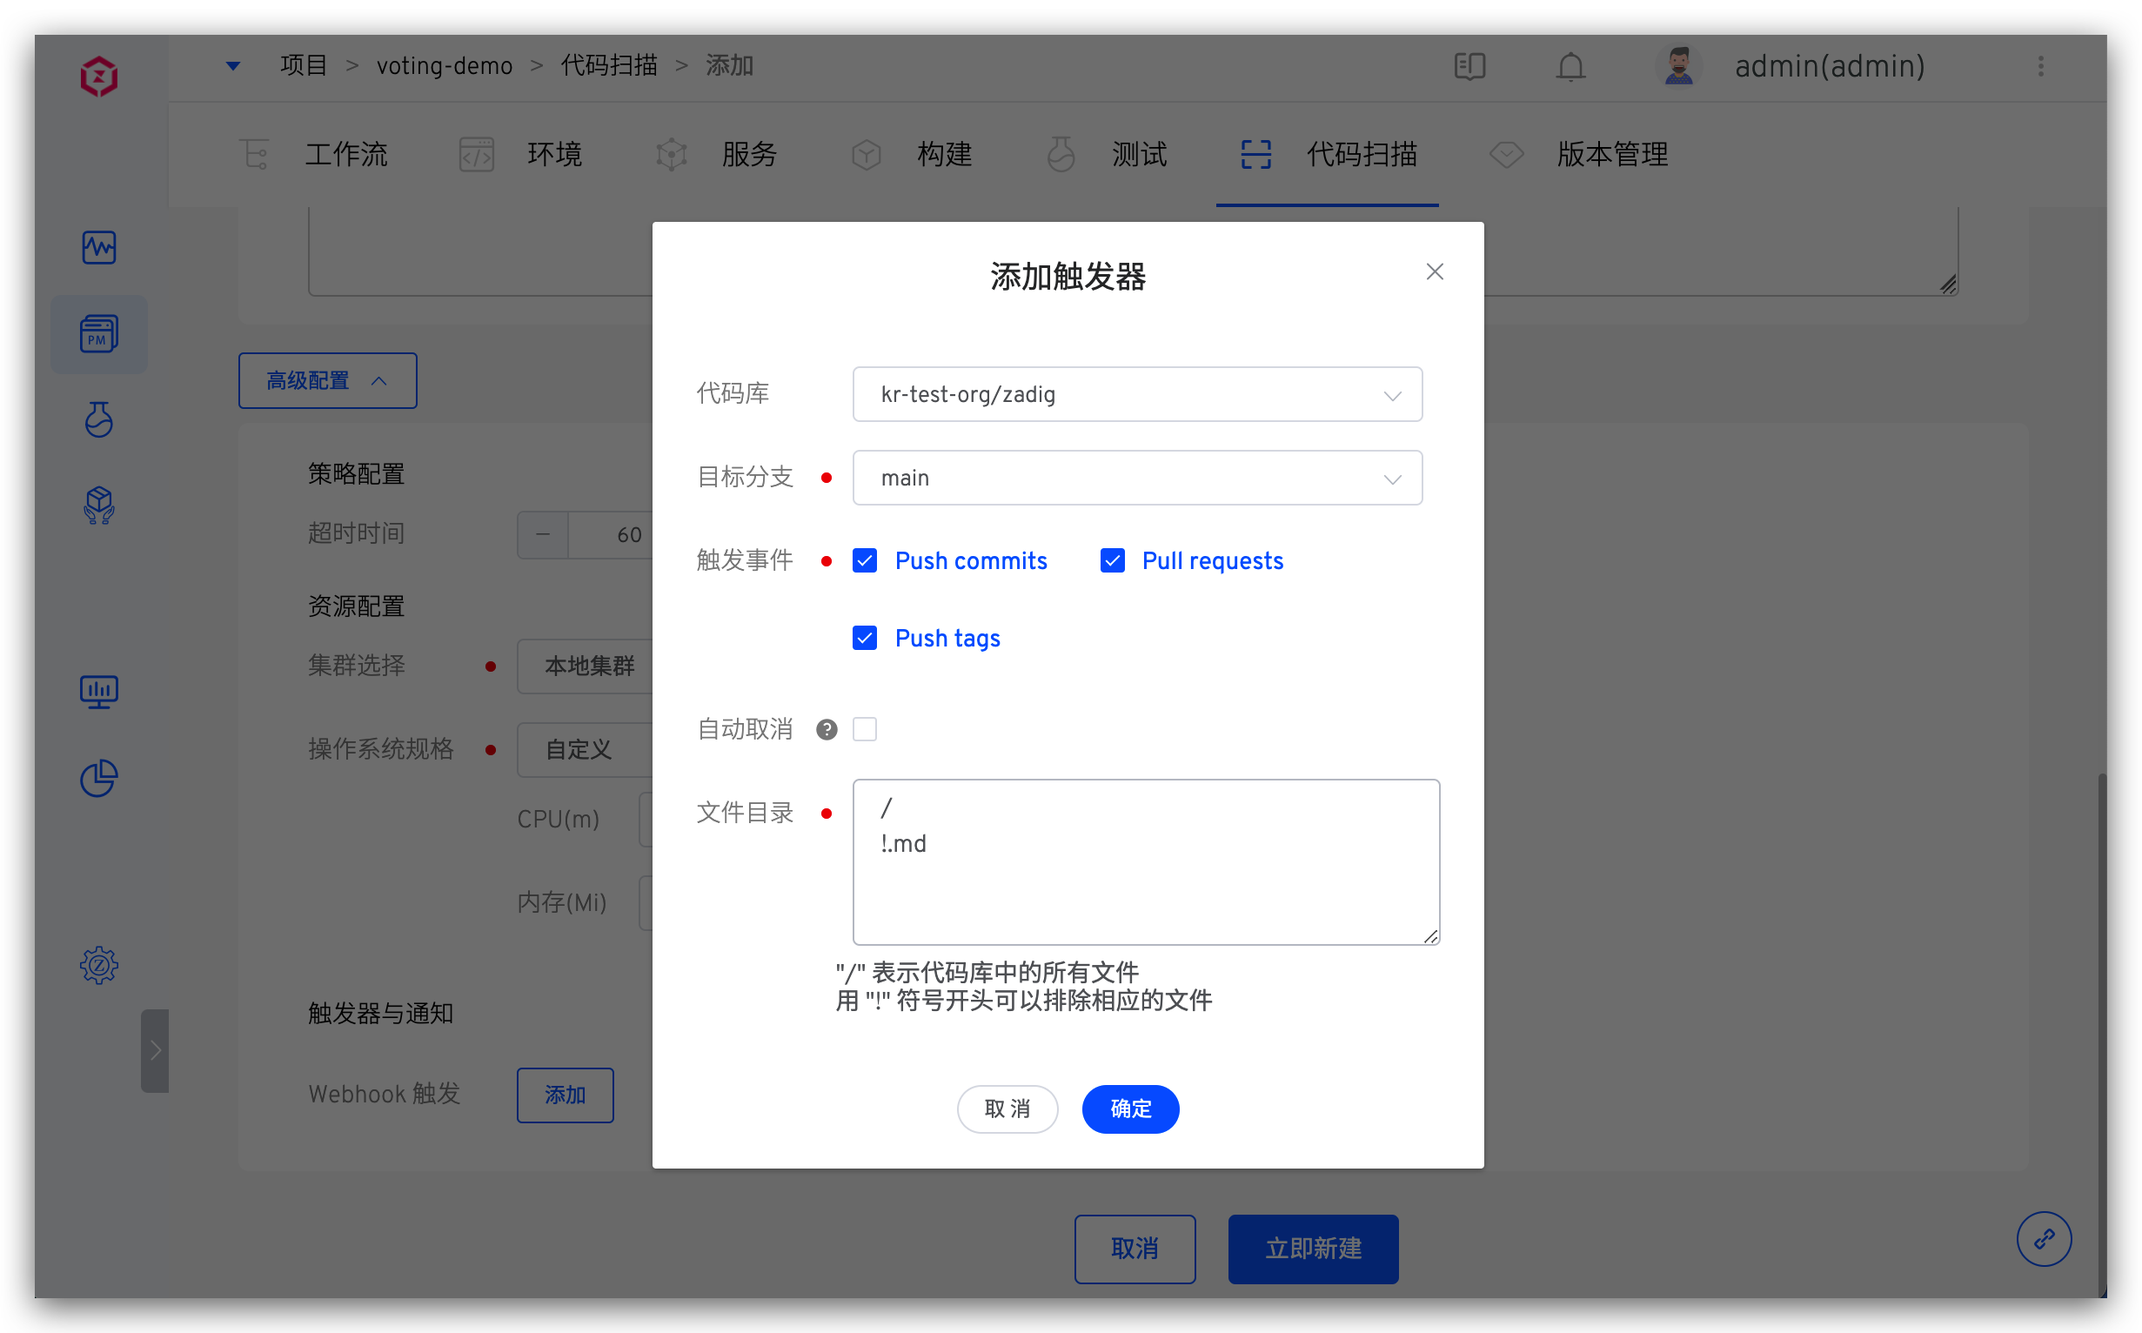
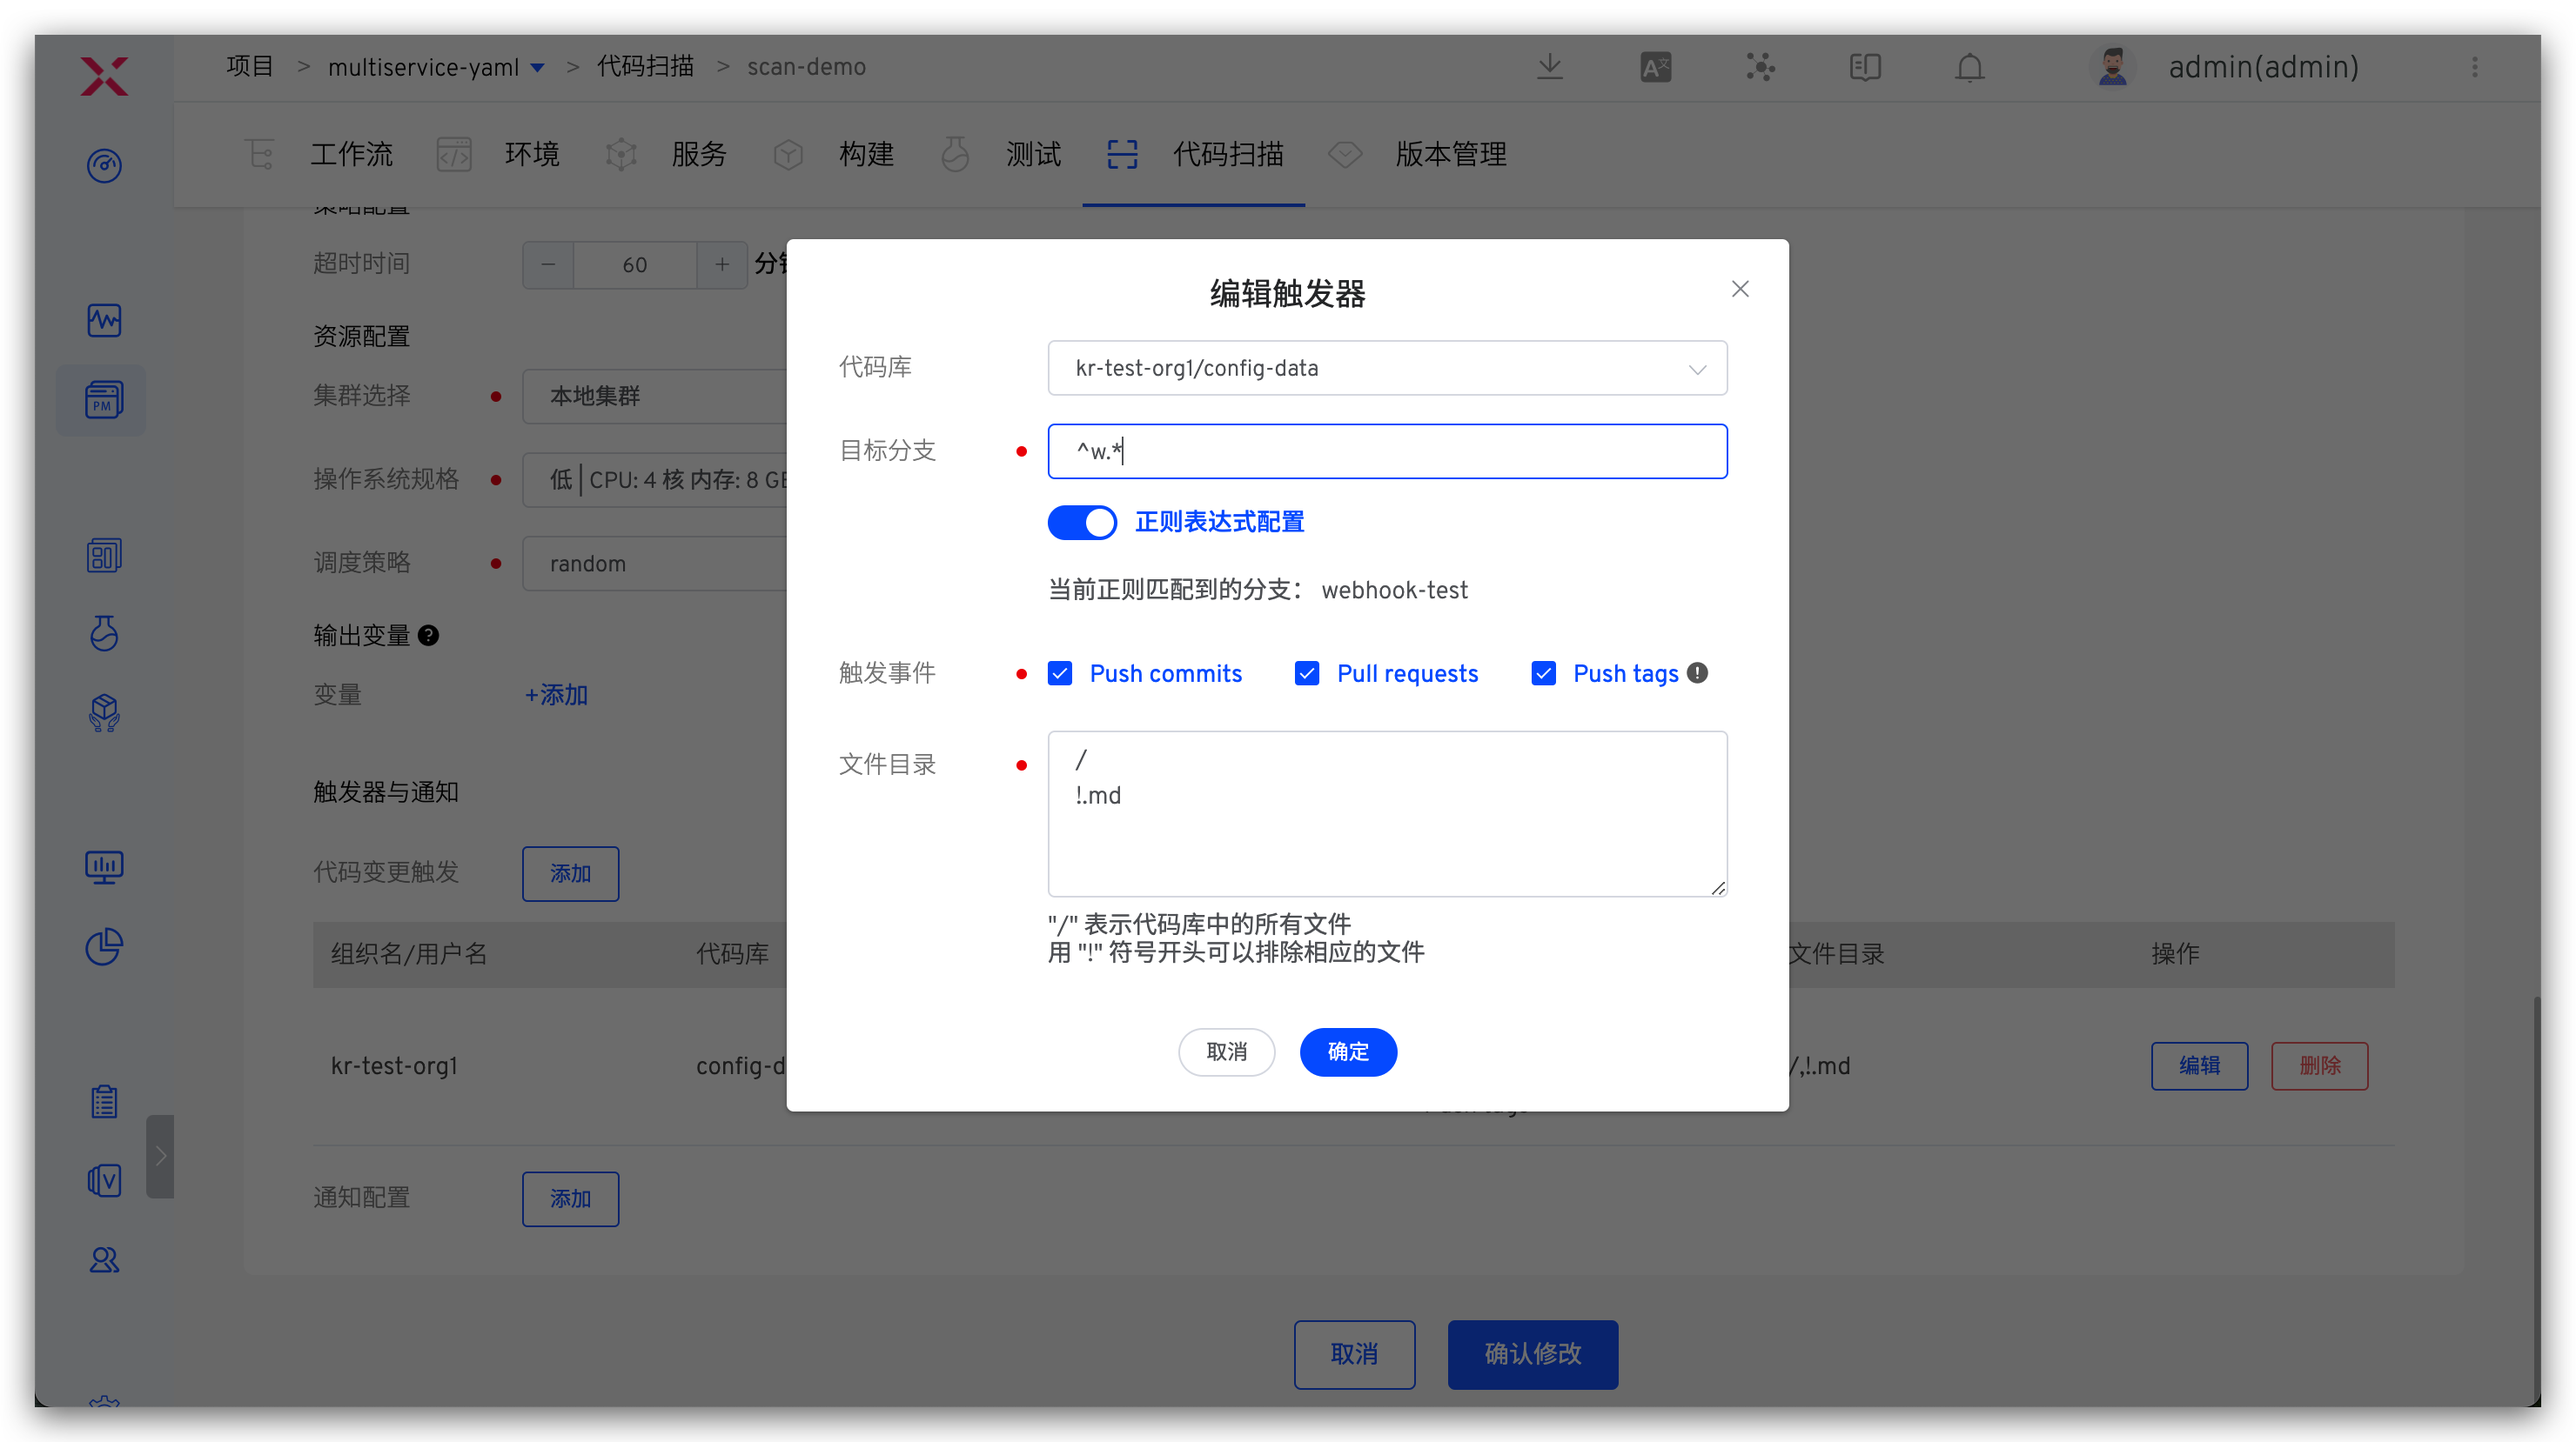
add guanceyun jobs

diff --git a/ZadigX dev/05.功能介绍/17.集成管理/06.monitor.md b/ZadigX dev/05.功能介绍/17.集成管理/06.monitor.md
@@ -1,0 +1,32 @@
+---
+title: 监控系统
+date: 2022-05-11 20:40:00
+permalink: /ZadigX dev/settings/monitor/
+---
+
+本文介绍在 ZadigX 系统上集成监控系统观测云。
+
+## 如何集成观测云
+
+###  第一步：获取观测云 API Key
+
+在观测云工作空间的管理 > API Key 管理，新建 API Key 并保存 Key 信息，参考文档：[API Key 管理](https://docs.guance.com/management/api-key/)
+
+![guanceyun](./_images/config_guanceyun_system.png)
+
+### 第二步：在 ZadigX 上配置观测云
+
+系统管理员依次访问 `系统设置` ->  `系统集成` -> `监控系统`，添加观测云的相关信息，如下图所示。
+
+![guanceyun](./_images/config_guanceyun_system_1.png)
+
+参数说明：
+- `系统类型`：选择`观测云`
+- `系统标识`：自定义，方便在 ZadigX 系统中快速识别出该系统即可
+- `访问地址`：观测云访问地址
+- `OpenAPI 地址`：和观测云系统部署类型、部署节点相关，参考 [官方文档](https://docs.guance.com/open-api/#endpoint) 查阅
+- `API Token`：即第一步中获取的 Key 信息
+
+## 如何使用观测云
+
+在自定义工作流中配置服务监测任务即可使用观测云监测服务是否健康，参考文档：[观测云监测](/ZadigX%20dev/project/workflow-jobs/#观测云监测)。

diff --git a/ZadigX dev/05.功能介绍/02.工作流/04.workflow_jobs.md b/ZadigX dev/05.功能介绍/02.工作流/04.workflow_jobs.md
@@ -233,6 +233,27 @@ permalink: /ZadigX dev/project/workflow-jobs/
 - `EXEC_SQL`：需要执行的 SQL 语句
 - `COMMENT`：工单评论信息
 
+## 服务监测
+
+### 观测云监测
+
+对观测云监测器在指定观测时间内的事件进行监控，当出现不低于配置级别的事件时，则检测结果异常。
+
+<img src="../_images/guanceyun_task_config.png" width="400">
+<img src="../_images/guanceyun_task_config_1.png" width="400">
+
+参数说明：
+- `观测云服务`：选择系统集成中配置的观测云监测系统
+- `观测时间`：配置观测云监测时间
+- `选择监控器`：选择观测云系统中的监控器并配置需要关注的最低事件级别
+- `失败策略`：配置工作流任务失败的策略，包括以下两种
+  - `单个监控异常任务立即失败`：只要有一个监测器结果异常，工作流任务就失败结束，不会等待所有监测器执行完毕
+  - `所有监控完成后存在异常时任务失败`：所有监控器执行完毕后有异常结果时，工作流任务才失败
+
+监测异常时，可点击查看事件详情分析服务是否健康。
+
+![common_workflow_config](../_images/guanceyun_task_config_2.png)
+
 ## 其他
 ### 通用任务
 

diff --git a/ZadigX dev/05.功能介绍/17.集成管理/02.代码源/00.overview.md b/ZadigX dev/05.功能介绍/17.集成管理/02.代码源/00.overview.md
@@ -35,7 +35,7 @@ ZadigX 支持集成以下代码源：
 | 工作流触发器，手动配置（[图示](#手动配置工作流触发器)） | ✅ | ✅ | — | ✅ | ✅ |—|
 | 工作流触发器，YAML 方式配置（[图示](#yaml-方式)） | — | ✅ | — | — | — |—|
 | 测试触发器（[图示](#测试触发器)） | ✅ | ✅ | — | ✅ | ✅ |—|
-| 代码扫描触发器（[图示](#代码扫描触发器)） | ✅ | ✅ | — | — | — |—|
+| 代码扫描触发器（[图示](#代码扫描触发器)） | ✅ | ✅（额外支持正则表达式配置目标分支） | — | — | — |—|
 | 导入 Helm Chart Values 文件（[图示](#导入-helm-chart-values-文件)） | ✅ | ✅ | — | — | — |—|
 | 和 Jira Issue 联动（[图示](#和-jira-issue-联动)） | ✅ | ✅ | — | — | — |—|
 | 基于 PR 的独立测试环境（[图示](#基于-pr-的独立测试环境)） | — | ✅ | — | — | — |—|
